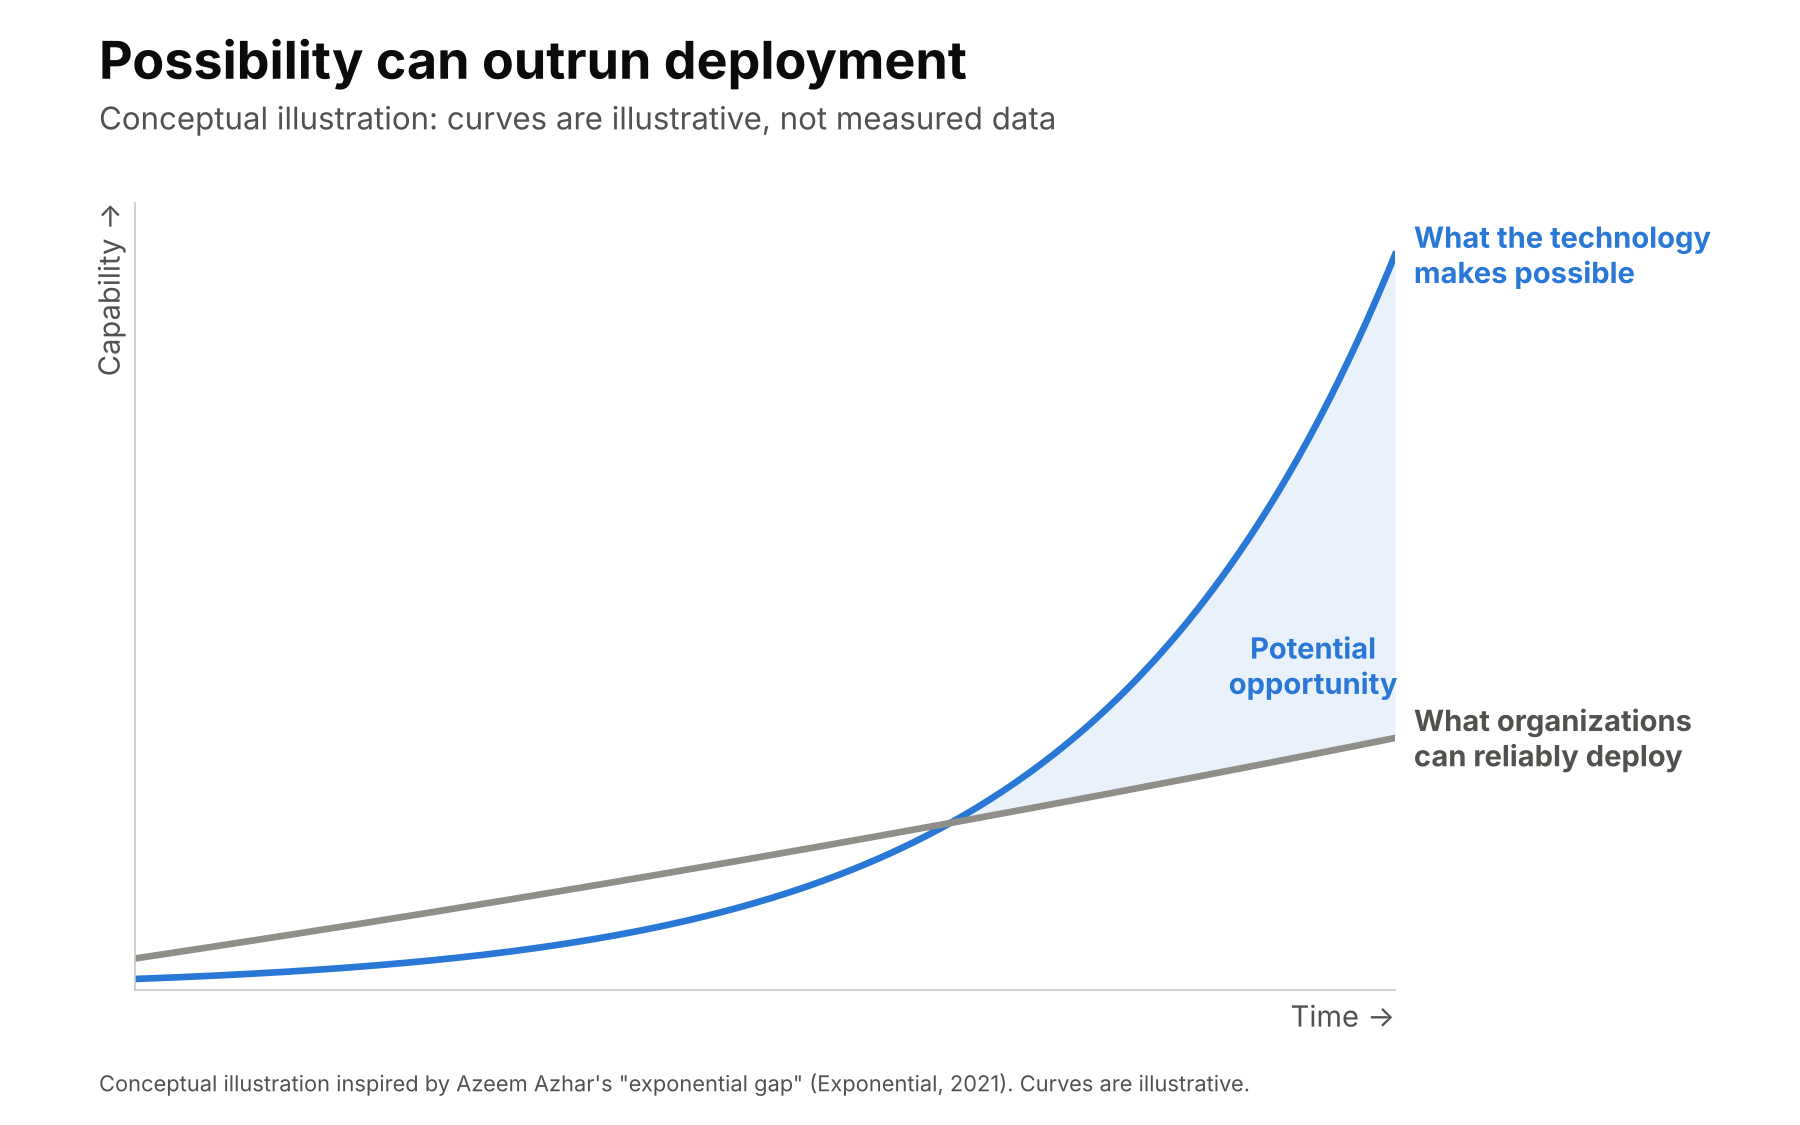
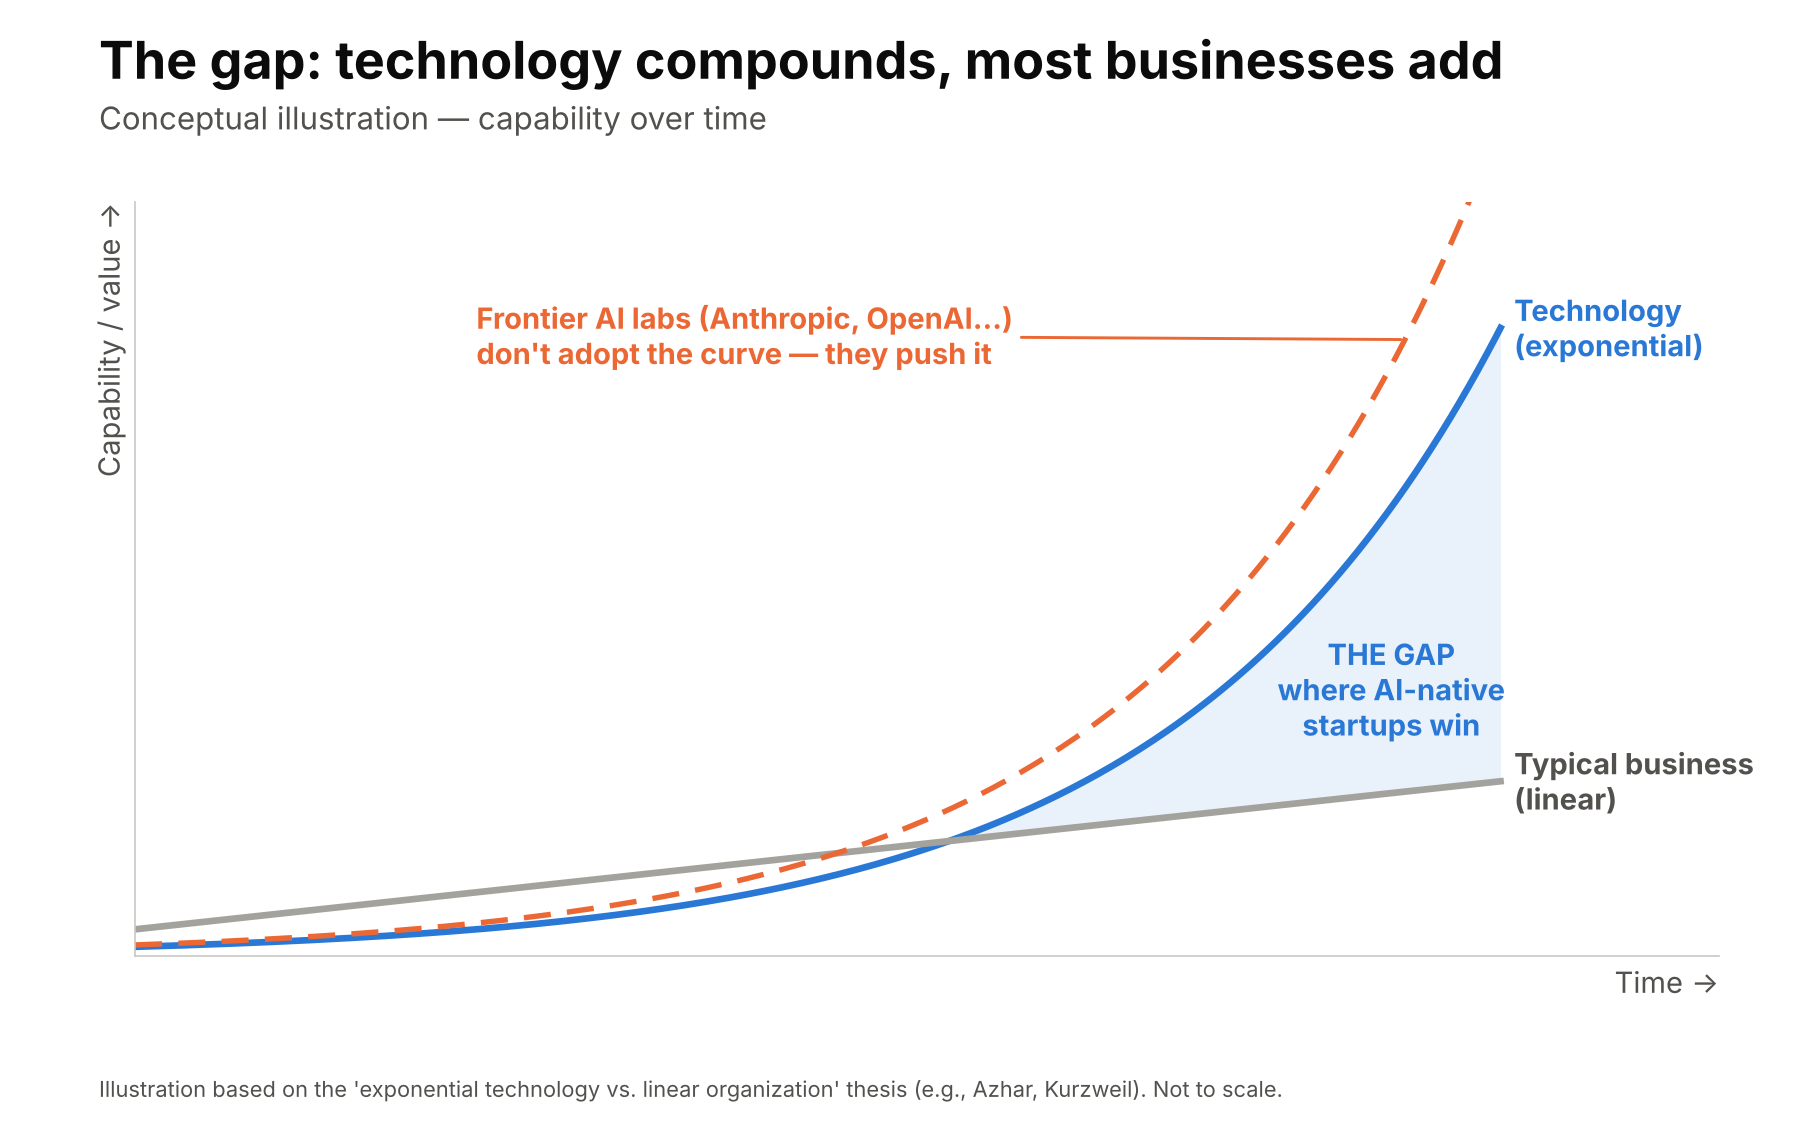
Revise Anthropic IPO post per review notes
- Headings, TOC, meta description and homepage card: "Rapid growth on
  a log scale" and "The cost of staying at the frontier".
- Cite primary sources: final prospectus, Anthropic announcements,
  The Information, Reuters (via The Star), Stripe.
- "expected to be incurred" for the $451.6B; Dow drop 848.75 points.
- Quarterly chart: drop the derived Q4 footnote; caption cites the
  prospectus quarterly statements ($2.040B).
- Section 3: use the source doc's gap chart (frontier labs version).

diff --git a/Blogs/anthropic-ipo-riding-the-exponential.html b/Blogs/anthropic-ipo-riding-the-exponential.html
@@ -4,11 +4,11 @@
 <meta charset="UTF-8">
 <meta name="viewport" content="width=device-width, initial-scale=1.0">
 <title>Anthropic Goes Public Today: Riding the Exponential — Field Notes</title>
-<meta name="description" content="Anthropic's record $81.34B IPO, read like an analyst: a revenue run-rate that went ~930x in 33 months, a $1.5T valuation pricing the curve, the exponential gap, and the costs that grow exponentially too.">
+<meta name="description" content="Anthropic's record $81.34B IPO, read like an analyst: a revenue run-rate that went ~930x in 33 months, a $1.5T valuation pricing the curve, the exponential gap, and the cost of staying at the frontier.">
 <meta name="author" content="Md. Shahriar Bin Mohsin">
 
 <meta property="og:title" content="Anthropic Goes Public Today: Riding the Exponential">
-<meta property="og:description" content="The largest IPO by gross base offering size, and what the shape of the numbers behind it says about exponential technology, valuation and cost.">
+<meta property="og:description" content="The largest IPO by gross base offering size, and what the shape of the numbers behind it says about exponential technology, valuation and the cost of staying at the frontier.">
 <meta property="og:type" content="article">
 <meta property="og:url" content="https://sbmsoikot.github.io/shahriar-profile/Blogs/anthropic-ipo-riding-the-exponential.html">
 <meta property="og:image" content="https://sbmsoikot.github.io/shahriar-profile/Blogs/anthropic-ipo-images/revenue-run-rate.png">
@@ -259,11 +259,11 @@
     <div class="toc-h">In this analysis</div>
     <ol>
       <li><a href="#deal">The deal: a record IPO</a></li>
-      <li><a href="#revenue">Revenue: a straight line on a log chart</a></li>
+      <li><a href="#revenue">Revenue: rapid growth on a log scale</a></li>
       <li><a href="#valuation">Valuation: pricing the curve</a></li>
       <li><a href="#theory">The theory: possibility outruns deployment</a></li>
       <li><a href="#twist">The twist: Anthropic is the curve</a></li>
-      <li><a href="#caution">The caution: exponential costs, too</a></li>
+      <li><a href="#caution">The caution: the cost of staying at the frontier</a></li>
       <li><a href="#takeaway">The takeaway for business leaders</a></li>
     </ol>
   </nav>
@@ -298,9 +298,9 @@
 
   <p class="lead-line">Put on an analyst's hat, and the headline is less interesting than the shape of the numbers behind it.</p>
 
-  <h2 id="revenue"><span class="num">01 / REVENUE</span>A straight line on a log chart</h2>
+  <h2 id="revenue"><span class="num">01 / REVENUE</span>Rapid growth on a log scale</h2>
 
-  <p>Anthropic's annualized revenue run-rate went from about $87 million at the start of 2024, by the company's own account, to <strong>about $81 billion as of October 31, 2026</strong>, per its IPO disclosures (<a href="https://finance.yahoo.com/technology/ai/articles/anthropic-says-revenue-run-rate-200343777.html" target="_blank" rel="noopener">Yahoo Finance</a>). That is roughly 930x in 33 months. The prospectus defines run-rate as 28 days of consumption-based fees, annualized, plus one month of subscription fees, annualized.</p>
+  <p>Anthropic's annualized revenue run-rate went from about $87 million at the start of 2024, by the company's <a href="https://www.anthropic.com/news/anthropic-expands-global-leadership-in-enterprise-ai-naming-chris-ciauri-as-managing-director-of" target="_blank" rel="noopener">own account</a>, to <strong>about $81 billion as of October 31, 2026</strong>, per its <a href="https://www.sec.gov/Archives/edgar/data/2130357/000162828026074944/anthropicpbc-424b4.htm" target="_blank" rel="noopener">final prospectus</a>. That is roughly 930x in 33 months. The prospectus defines run-rate as 28 days of consumption-based fees, annualized, plus one month of subscription fees, annualized.</p>
 
   <p>Customer depth grew too. More than 11,900 customers generated at least $100,000 in trailing-12-month revenue as of September 30, 2026, up from more than 950 a year earlier.</p>
 
@@ -308,19 +308,19 @@
     <div class="chart">
       <img src="anthropic-ipo-images/revenue-run-rate.png" alt="Log-scale line chart of Anthropic's annualized revenue run-rate, from $87M in Jan 2024 to $3B in May 2025, $9B in Dec 2025, $30B in Apr 2026, $65B in Jul 2026 and $81B in Oct 2026" loading="lazy">
     </div>
-    <figcaption><b>Run-rate</b> Anthropic's annualized revenue run-rate on a log scale. A steeper slope means faster growth.</figcaption>
+    <figcaption><b>Run-rate</b> Anthropic's annualized revenue run-rate on a log scale. A steeper slope means faster growth. The May 2025 point is from <a href="https://www.thestar.com.my/tech/tech-news/2025/05/31/exclusive-anthropic-hits-3-billion-in-annualized-revenue-on-business-demand-for-ai" target="_blank" rel="noopener">Reuters</a>.</figcaption>
   </figure>
 
-  <p>On a log scale, a constant growth <em>rate</em> would draw a straight line, and a steeper slope means faster growth. This line shows rapid growth at varying rates: steepest in early 2026 and flatter from July to October. For context, Reuters reported in late 2025, citing unnamed sources, that Anthropic's <em>best-case</em> target for 2026 was $26 billion (<a href="https://finance.yahoo.com/news/exclusive-anthropic-aims-nearly-triple-170234463.html" target="_blank" rel="noopener">Reuters via Yahoo</a>). Anthropic said it passed $30 billion in early April.</p>
+  <p>On a log scale, a constant growth <em>rate</em> would draw a straight line, and a steeper slope means faster growth. This line shows rapid growth at varying rates: steepest in early 2026 and flatter from July to October. For context, Reuters reported in late 2025, citing unnamed sources, that Anthropic's <em>best-case</em> target for 2026 was $26 billion (<a href="https://finance.yahoo.com/news/exclusive-anthropic-aims-nearly-triple-170234463.html" target="_blank" rel="noopener">Reuters via Yahoo</a>). Anthropic <a href="https://www.anthropic.com/news/google-broadcom-partnership-compute" target="_blank" rel="noopener">said</a> it passed $30 billion in early April.</p>
 
   <div class="note">
     <span class="tag">One honest caveat</span>
-    Run-rate is a snapshot of recent momentum, not booked revenue. Recognized GAAP revenue was $4.6 billion for 2025 and $33.2 billion for the first nine months of 2026. Those figures cover different periods from the October run-rate, so they should not be compared directly (<a href="https://venturemagazine.net/blog/anthropic-amended-s-1-q3-revenue-compute-commitments" target="_blank" rel="noopener">Venture Magazine</a>).
+    Run-rate is a snapshot of recent momentum, not booked revenue. Recognized GAAP revenue was $4.6 billion for 2025 and $33.2 billion for the first nine months of 2026. Those figures cover different periods from the October run-rate, so they should not be compared directly (<a href="https://www.sec.gov/Archives/edgar/data/2130357/000162828026074944/anthropicpbc-424b4.htm" target="_blank" rel="noopener">final prospectus</a>).
   </div>
 
   <h2 id="valuation"><span class="num">02 / VALUATION</span>The market is pricing the curve, not the company</h2>
 
-  <p>Anthropic's valuation rose about 365x in three and a half years. The starting point, about $4.1 billion at the 2023 Series C, was reported by The Information; Anthropic disclosed the $450 million raised but not the valuation. Later private post-money valuations come from the company's own announcements, ending at $965 billion for the May 2026 Series H (<a href="https://www.revenuememo.com/p/anthropic-funding" target="_blank" rel="noopener">Revenue Memo</a>). The IPO price implies about $1.5 trillion, fully diluted. That is about 1.55x the Series H headline valuation, a comparison of headline valuations, not of what investors paid for equivalent shares (<a href="https://finance.yahoo.com/markets/stocks/articles/anthropic-prices-ipo-83-share-014000480.html" target="_blank" rel="noopener">Yahoo Finance</a>).</p>
+  <p>Anthropic's valuation rose about 365x in three and a half years. The starting point, about $4.1 billion at the 2023 Series C, was reported by <a href="https://www.theinformation.com/articles/openai-rival-anthropic-raises-funding-at-4-1-billion-valuation" target="_blank" rel="noopener">The Information</a>; Anthropic disclosed the $450 million raised but not the valuation. Later private post-money valuations come from the company's own announcements, ending at $965 billion for the May 2026 <a href="https://www.anthropic.com/news/series-h" target="_blank" rel="noopener">Series H</a>. The IPO price implies about $1.5 trillion, fully diluted. That is about 1.55x the Series H headline valuation, a comparison of headline valuations, not of what investors paid for equivalent shares (<a href="https://finance.yahoo.com/markets/stocks/articles/anthropic-prices-ipo-83-share-014000480.html" target="_blank" rel="noopener">Yahoo Finance</a>).</p>
 
   <figure>
     <div class="chart">
@@ -337,14 +337,14 @@
 
   <figure>
     <div class="chart">
-      <img src="anthropic-ipo-images/exponential-gap.png" alt="Conceptual illustration: an exponential curve for what the technology makes possible pulls away from a linear line for what organizations can reliably deploy; the shaded area between them is labelled potential opportunity" loading="lazy">
+      <img src="anthropic-ipo-images/exponential-gap.png" alt="Conceptual illustration: technology capability compounds exponentially while a typical business improves linearly; the shaded gap between them is where AI-native startups win, and a steeper dashed curve shows frontier AI labs pushing the curve itself" loading="lazy">
     </div>
-    <figcaption><b>The gap</b> A conceptual illustration. The curves are illustrative, not measured data.</figcaption>
+    <figcaption><b>The gap</b> Technology compounds; most businesses add. A conceptual illustration based on the exponential-technology thesis (e.g. Azhar, Kurzweil). Not to scale.</figcaption>
   </figure>
 
   <p>The space between what the technology makes possible and what organizations can reliably deploy is a <strong>potential opportunity</strong>. Gains inside it can be measured one workflow at a time. A 2025 study of 5,172 customer-support agents found that AI assistance raised issues resolved per hour by <strong>15% on average</strong>. Gains varied widely: less experienced workers improved the most, while the most experienced saw small speed gains and small declines in quality (<a href="https://academic.oup.com/qje/article/140/2/889/7990658" target="_blank" rel="noopener">Brynjolfsson, Li and Raymond, <em>Quarterly Journal of Economics</em></a>). That shows a workflow-level gain is measurable. Measuring the gap itself would also need a baseline for what an organization can already deploy reliably.</p>
 
-  <p>Startups often build their whole product inside this gap. Stripe is a clear example. It launched in 2011 to make online payments simpler, at a time when accepting cards on the web still meant arranging a merchant account and integrating with a payment gateway. Stripe offered a developer-focused platform that replaced much of that setup with a few lines of code. The technology was not new. The friction was, for Stripe, the opportunity.</p>
+  <p>Startups often build their whole product inside this gap. Stripe is a clear example. It <a href="https://stripe.com/about" target="_blank" rel="noopener">launched in 2011</a> to make online payments simpler, at a time when accepting cards on the web still meant arranging a merchant account and integrating with a payment gateway. Stripe offered a developer-focused platform that replaced much of that setup with a few lines of code. The technology was not new. The friction was, for Stripe, the opportunity.</p>
 
   <h2 id="twist"><span class="num">04 / THE TWIST</span>Anthropic is not riding the curve. It is the curve.</h2>
 
@@ -353,7 +353,7 @@
   <p>Anthropic's prospectus describes a feedback loop between model improvements, product usage and investment. In simple terms:</p>
 
   <ol class="body-list">
-    <li><strong>Better models can unlock new use cases.</strong> Claude Code reached general availability in May 2025 and passed a $2.5 billion run-rate by February 2026, per Anthropic's Series G announcement.</li>
+    <li><strong>Better models can unlock new use cases.</strong> Claude Code reached general availability in May 2025 and passed a $2.5 billion run-rate by February 2026, per Anthropic's <a href="https://www.anthropic.com/news/anthropic-raises-30-billion-series-g-funding-380-billion-post-money-valuation" target="_blank" rel="noopener">Series G announcement</a>.</li>
     <li><strong>New use cases can bring revenue:</strong> more than 11,900 customers generated at least $100,000 in trailing-12-month revenue as of September 30, 2026.</li>
     <li><strong>Revenue and capital fund compute and research talent.</strong> That now includes about $104.8 billion in estimated net proceeds from the IPO and concurrent private placement.</li>
     <li><strong>Compute and research can produce the next, better model.</strong></li>
@@ -361,25 +361,25 @@
 
   <p>When the loop turns, the technology curve and the company's revenue can move together. It is not automatic. Revenue also depends on how widely customers deploy the models, on pricing, on competition and on how much compute is available.</p>
 
-  <h2 id="caution"><span class="num">05 / THE CAUTION</span>Exponential costs, too</h2>
+  <h2 id="caution"><span class="num">05 / THE CAUTION</span>The cost of staying at the frontier</h2>
 
-  <p>Spending is the other side of the story. The final prospectus reports about <strong>$900.9 billion in aggregate purchase and lease commitments</strong>, substantially all for compute and infrastructure, with about $451.6 billion expected to come due before December 31, 2030 (<a href="https://www.sec.gov/Archives/edgar/data/2130357/000162828026074944/anthropicpbc-424b4.htm" target="_blank" rel="noopener">final prospectus</a>, <a href="https://www.kucoin.com/news/flash/anthropic-s-1-5t-ipo-backed-by-900-9b-ai-infrastructure-commitments" target="_blank" rel="noopener">KuCoin News</a>). Those are multiyear commitments. The quarterly cost is separate: compute and infrastructure expense was $9.9 billion in Q3, about 58% of that quarter's revenue (<a href="https://venturemagazine.net/blog/anthropic-amended-s-1-q3-revenue-compute-commitments" target="_blank" rel="noopener">Venture Magazine</a>).</p>
+  <p>Spending is the other side of the story. The final prospectus reports about <strong>$900.9 billion in aggregate purchase and lease commitments</strong>, substantially all for compute and infrastructure, with about $451.6 billion expected to be incurred before December 31, 2030 (<a href="https://www.sec.gov/Archives/edgar/data/2130357/000162828026074944/anthropicpbc-424b4.htm" target="_blank" rel="noopener">final prospectus</a>). Those are multiyear commitments. The quarterly cost is separate: compute and infrastructure expense was $9.9 billion in Q3, about 58% of that quarter's revenue.</p>
 
-  <p>Profitability moved the wrong way in Q3. Anthropic reported a $567 million operating loss after a $974 million operating profit in Q2. The Q3 net loss was $23.3 billion, including a $21.9 billion non-cash fair-value charge on convertible notes, derivative liabilities and SAFEs (<a href="https://finance.yahoo.com/technology/ai/articles/anthropic-says-revenue-run-rate-200343777.html" target="_blank" rel="noopener">Yahoo Finance</a>).</p>
+  <p>Profitability moved the wrong way in Q3. Anthropic reported a $567 million operating loss after a $974 million operating profit in Q2. The Q3 net loss was $23.3 billion, including a $21.9 billion non-cash fair-value charge on convertible notes, derivative liabilities and SAFEs (<a href="https://www.sec.gov/Archives/edgar/data/2130357/000162828026074944/anthropicpbc-424b4.htm" target="_blank" rel="noopener">final prospectus</a>).</p>
 
   <figure>
     <div class="chart">
       <img src="anthropic-ipo-images/quarterly-revenue.png" alt="Bar chart of Anthropic quarterly recognized revenue: Q3 2025 $1.38B, Q4 2025 $2.04B, Q1 2026 $4.7B (+131%), Q2 2026 $11.6B (+144%), Q3 2026 $17.0B (+47%)" loading="lazy">
     </div>
-    <figcaption><b>Quarterly revenue</b> Recognized GAAP revenue, not run-rate. Still growing fast, but sequential growth slowed in Q3.</figcaption>
+    <figcaption><b>Quarterly revenue</b> Recognized GAAP revenue, not run-rate. Source: Anthropic <a href="https://www.sec.gov/Archives/edgar/data/2130357/000162828026074944/anthropicpbc-424b4.htm" target="_blank" rel="noopener">final prospectus</a>, Quarterly Consolidated Statements of Operations (Q4 2025: $2.040 billion).</figcaption>
   </figure>
 
   <p>Sequential growth also slowed. Quarterly revenue rose 144% from Q1 to Q2, then 47% into Q3, to $17.0 billion, about 12.3x the same quarter a year earlier. One slower quarter does not settle the long-run trend. It does sharpen the question for ANT shareholders: can growth stay high long enough for durable profits to arrive?</p>
 
   <div class="note gotcha">
     <span class="tag">Two more things to watch</span>
-    <strong>Volatility.</strong> AI stocks were volatile going into the debut: on November 17, the Dow closed down 849 points as Nvidia and other AI stocks swung lower (<a href="https://www.ajc.com/news/2026/11/another-wipeout-hits-wall-street-as-nvidia-and-other-jittery-ai-stocks-swing-lower/" target="_blank" rel="noopener">AP via AJC</a>).<br>
-    <strong>Governance.</strong> Anthropic is a public-benefit corporation, and its Long-Term Benefit Trust generally has authority to elect and remove directors making up a majority of the board (<a href="https://finance.yahoo.com/markets/stocks/articles/anthropic-prices-ipo-83-share-014000480.html" target="_blank" rel="noopener">Yahoo Finance</a>).
+    <strong>Volatility.</strong> AI stocks were volatile going into the debut: on November 17, the Dow closed down 848.75 points as Nvidia and other AI stocks swung lower (<a href="https://www.ajc.com/news/2026/11/another-wipeout-hits-wall-street-as-nvidia-and-other-jittery-ai-stocks-swing-lower/" target="_blank" rel="noopener">AP via AJC</a>).<br>
+    <strong>Governance.</strong> Anthropic is a public-benefit corporation, and its Long-Term Benefit Trust generally has authority to elect and remove directors making up a majority of the board (<a href="https://www.sec.gov/Archives/edgar/data/2130357/000162828026074944/anthropicpbc-424b4.htm" target="_blank" rel="noopener">final prospectus</a>).
   </div>
 
   <h2 id="takeaway"><span class="num">06 / TAKEAWAY</span>The takeaway for business leaders</h2>

diff --git a/index.html b/index.html
@@ -683,7 +683,7 @@
         <div class="pc-body">
           <div class="pc-series">Field Notes &nbsp;·&nbsp; Market Analysis &nbsp;·&nbsp; Nov 19, 2026</div>
           <h2>Anthropic Goes Public Today: Riding the Exponential</h2>
-          <p>A record $81.34B IPO and a $1.5T valuation, read like an analyst: a revenue run-rate that grew ~930x in 33 months, a market pricing the curve rather than the company, the "exponential gap" — and the compute costs that grow exponentially too.</p>
+          <p>A record $81.34B IPO and a $1.5T valuation, read like an analyst: a revenue run-rate that grew ~930x in 33 months, a market pricing the curve rather than the company, the "exponential gap" — and the cost of staying at the frontier.</p>
         </div>
         <div class="pc-footer">
           <span class="pc-meta">~9 min read &nbsp;·&nbsp; 2026</span>
